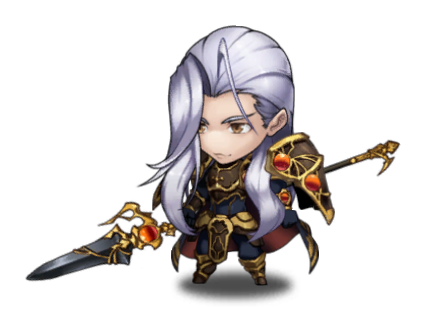
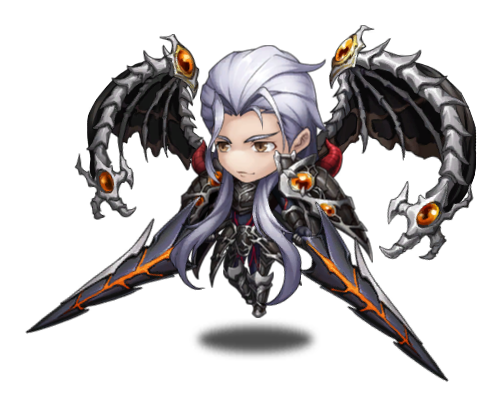
알테뮬러 스킨수정

diff --git a/hero/data/알테뮬러.js b/hero/data/알테뮬러.js
@@ -148,11 +148,11 @@
         {
           "ImageUrl": "알테뮬러/4/1.png"
         },
-        {
-          "ImageUrl": "알테뮬러/5/1.png"
+	    {
+          "ImageUrl": "알테뮬러/sp/1.png"
         },
         {
-          "ImageUrl": "알테뮬러/sp/1.png"
+          "ImageUrl": "알테뮬러/5/1.png"
         }
       ],
       "AttkRange": 1,
@@ -188,12 +188,12 @@
         },
         {
           "ImageUrl": "알테뮬러/4/2.png"
+        },		
+        {
+          "ImageUrl": "알테뮬러/sp/1.png"
         },
         {
           "ImageUrl": "알테뮬러/5/2.png"
-        },
-        {
-          "ImageUrl": "알테뮬러/sp/2.png"
         }
       ],
       "AttkRange": 1,
@@ -231,10 +231,10 @@
           "ImageUrl": "알테뮬러/4/3.png"
         },
         {
-          "ImageUrl": "알테뮬러/5/3.png"
+          "ImageUrl": "알테뮬러/sp/1.png"
         },
         {
-          "ImageUrl": "알테뮬러/sp/3.png"
+          "ImageUrl": "알테뮬러/5/3.png"
         }
       ],
       "AttkRange": 1,

diff --git a/assets/js/apex.js b/assets/js/apex.js
@@ -16,4 +16,3 @@ select.addEventListener('change', (e) => {
     var oImgHeight = $(this).height();
 	img.style ='max-width:'+oImgWidth+'px', 'max-height:'+oImgHeight+'px','width:100%','height:100%'
 })
-
